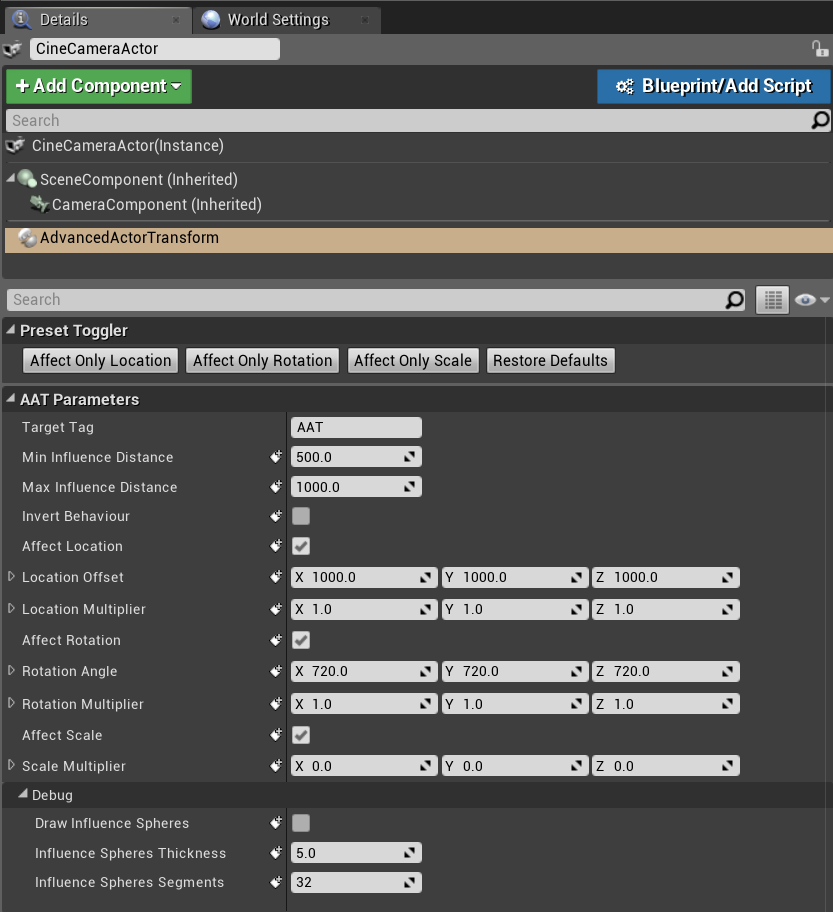
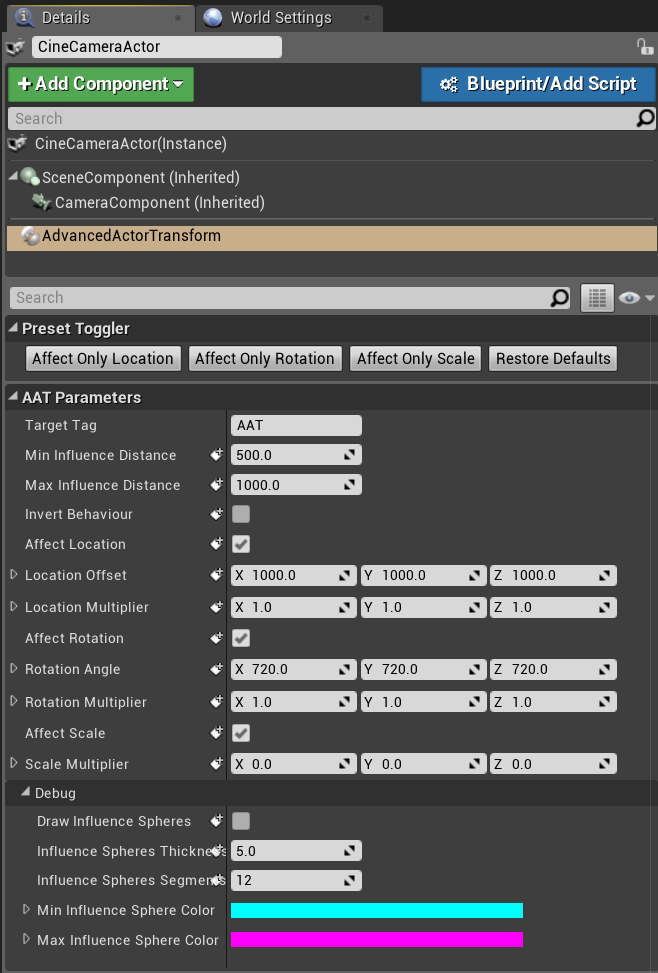
Documentation

diff --git a/README.md b/README.md
@@ -1,1 +1,94 @@
-# AdvancedActorTransform
+# **Advanced Actor Transform - How to setup:**
+- Download AdvancedActorTransform from the [Unreal Marketplace](https://unrealengine.com/marketplace/en-US/product/26fa6336e06b41d2baad1f9308d9019b) and add it to your project
+- Feel free to delete the ExampleContent folder in case you don't need it
[1 lines of base64/hex data omitted]
+![AddComponentFromDetails](https://github.com/Ares9323/AdvancedActorTransform/blob/master/Images/AddComponentFromDetails.png)
+- [**Recommended to use in game**] Add AdvancedActorTransformComponent to your character from the Add Component button in the Blueprint Editor:
+![AddComponentFromBlueprint](https://github.com/Ares9323/AdvancedActorTransform/blob/master/Images/AddComponentFromBlueprint.png)
+- Change the default values of the component according to your needs.
+
+# The details panel:
+![Details Panel](https://github.com/Ares9323/AdvancedActorTransform/blob/master/Images/AATDetails.png)
+## Preset toggler
+- **Affect only location** toggles the **Affect Rotation** and **Affect Scale** to false globally, they will ignore any tag that is not related to location.
+- **Affect only rotation** toggles the **Affect Location** and **Affect Scale** to false globally, they will ignore any tag that is not related to rotation.
+- **Affect only scale** toggles the **Affect Location** and **Affect Rotation** to false globally, they will ignore any tag that is not related to scale.
+- **Restore Defaults** restores the default values of the component (Affect Location, Rotation and Scale to true, and all the Offsets and Multipliers to their default values)
+## AAT Parameters
+| Variable | Default | Effect |
+|----------|---------|--------|
+|**Target Tag**|`AAT`|This is the tag that the component will use to find the actors to control, you can change it to any tag you want, but you have to use the same tag in the actors you want to control. If you want to use multiple components to control different actors, you can change this tag to a custom one, but **you have to make sure that no actor has the more than one control tag**, otherwise there will be conflicts.|
+|**Min Influence Distance**|`500`|This is the minimum distance that the actor has to be from the controller to be affected by it. If it's less or equal to this value, the actor will have its default Location, Rotation and Scale.|
+|**Max Influence Distance**|`500`|This is the maximum distance that the actor has to be from the controller to be affected by it. If it's greater or equal to this value, the actor will have its Location, Rotation and Scale set to the offset values.|
+|**Invert Behaviour**|`false`|Invert the effects of the component, if this is true, the actor will have its default Location, Rotation and Scale if it's less or equal to the Min Influence Distance, and it will have its Location, Rotation and Scale set to the offset values if it's greater or equal to the Max Influence Distance.|
+|**Affect Location**|`true`|If this is false, any actor with the Target Tag will ignore any location change from this controller. This will ignore any actor tag that related to location.|
+|**Location Offset**|`1000,1000,1000`|This is the offset that the actor will have if it's at the Max Influence Distance.|
+|**Location Multiplier**|`1,1,1`|This is the location offset multiplier, used to accentuate or reduce the effect of the offset. If you want to disable movement in all axes except one, you can set the other two multipliers to 0. This is a global setting and has priority over the tags.|
+|**Affect Rotation**|`true`|If this is false, any actor with the Target Tag will ignore any rotation change from this controller. This will ignore any actor tag that related to rotation.|
+|**Rotation Angle**|`720`,`720`,`720`|This is the angle that the actor will have if it's at the Max Influence Distance. By default, it's 720 degrees, which means that the actor will have a full rotation twice.|
+|**Rotation Multiplier**|`1,1,1`|This is the rotation angle multiplier, used to accentuate or reduce the effect of the rotation angle. If you want to disable rotation in all axes except one, you can set the other two multipliers to 0. This is a global setting and has priority over the tags.|
+|**Affect Scale**|`true`|If this is false, any actor with the Target Tag will ignore any scale change from this controller. This will ignore any actor tag that related to scale.|
+|**Scale Multiplier**|`0,0,0`|This is the scale multiplier, it will be multiplied by the scale of the actor at the Min Influence Distance. By default, it's 0, which means that the actor will have a scale of 0 at the Max Influence Distance (it will be invisible), if you want to make the actor bigger at the Max Influence Distance, you can set the multiplier to a value greater than 1. This is a global setting and has priority over the tags.|
+|**[Debug] DrawInfluenceSpheres**|`false`|If this is true, the component will draw spheres to show the Min and Max Influence Distance.|
+|**[Debug] InfluenceSpheresThickness**|`5`|This is the thickness of the spheres that are drawn when the DrawInfluenceSpheres is true. You might want to increase this value if you are using a large Min or Max Influence Distance.|
+|**[Debug] InfluenceSpheresSegments**|`12`|This is the number of segments of the spheres that are drawn when the DrawInfluenceSpheres is true. You might want to increase this value if you want to make the spheres look smoother and see a more precise representation of the Min and Max Influence Distance.|
+|**[Debug] MinInfluenceSphereColor**|`0,1,1,1`| This is the color of the smaller sphere that is drawn when the DrawInfluenceSpheres is true. The default color is cyan but it can be changed to avoid confusion when using multiple components.|
+|**[Debug] MaxInfluenceSphereColor**|`1,0,1,1`| This is the color of the bigger sphere that is drawn when the DrawInfluenceSpheres is true. The default color is magenta but it can be changed to avoid confusion when using multiple components.|
+
+# Tags and their effects
+| Tag                       | Effect |
+|---------------------------|--------|
+| AAT                       | Allows the actor to be controlled from the AAT component. (You can change this tag to a custom one if you want to use multiple components to control different actors)   |
+| AAT_IgnoreX               | The actor ignores location changes on the X axis      |
+| AAT_IgnoreY               | The actor ignores location changes on the Y axis      |
+| AAT_IgnoreZ               | The actor ignores location changes on the Z axis      |
+| AAT_MirrorX               | The actor location changes on the X axis are mirrored |
+| AAT_MirrorY               | The actor location changes on the Y axis are mirrored |
+| AAT_MirrorZ               | The actor location changes on the Z axis are mirrored |
+| AAT_IgnoreRoll            | The actor ignores rotation changes on the X axis      |
+| AAT_IgnorePitch           | The actor ignores rotation changes on the Y axis      |
+| AAT_IgnoreYaw             | The actor ignores rotation changes on the Z axis      |
+| AAT_MirrorRoll            | The actor rotation changes on the X axis are mirrored |
+| AAT_MirrorPitch           | The actor rotation changes on the Y axis are mirrored |
+| AAT_MirrorYaw             | The actor rotation changes on the Z axis are mirrored |
+| AAT_IgnoreScaleX          | The actor ignores scale changes on the X axis         |
+| AAT_IgnoreScaleY          | The actor ignores scale changes on the Y axis         |
+| AAT_IgnoreScaleZ          | The actor ignores scale changes on the Z axis         |
+| AAT_MirrorScaleX          | The actor scale changes on the X axis are mirrored    |
+| AAT_MirrorScaleY          | The actor scale changes on the Y axis are mirrored    |
+| AAT_MirrorScaleZ          | The actor scale changes on the Z axis are mirrored    |
+| AAT_IgnoreLocation        | The actor ignores location changes                    |
+| AAT_IgnoreRotation        | The actor ignores rotation changes                    |
+| AAT_IgnoreScale           | The actor ignores scale changes                       |
+| AAT_CollideOnlyInPlace    | The actor will only have collision enabled when it's in its definitive position, this is especially useful if you are using it in game mode, to avoid compenetrations with the player |
+| AAT_Pin                   | The actor will remain in its place once it reaches its destination. This is really useful tu save performance because the pinned actor will not be updated anymore every frame. If you want to re-enable them you have to call the AAT_GetTaggedActors inside the component|
+
+# How to add tags efficiently
+
+You can obviously add tags to the actors manually, but if you have a lot of actors and they already have different tags, the details panel won't help you at all.
+To overcome this issue, I created an Actor Action Utility that allows you to add/remove tags to multiple actors at once.
+In order to use it you just have to:
+- Select the actors you want to add/remove tags to
+- Right click on the actor and select "Scripted Actions" and select one of the AAT entries.
+![Scripted Actions](https://github.com/Ares9323/AdvancedActorTransform/blob/master/Images/ScriptedActions.png)
+
+## AAT_ActivatePreset
+![Activate Preset](https://github.com/Ares9323/AdvancedActorTransform/blob/master/Images/SA_ActivatePreset.png)
+-   **Default Presets**
+    - **Lock movement on all axes** - Adds the tags AAT_IgnoreX, AAT_IgnoreY and AAT_IgnoreZ separately, instead of AAT_IgnoreLocation, useful if you want to remove just one value.
+    - **Lock rotation on all axes** - Adds the tags AAT_IgnoreRoll, AAT_IgnorePitch and AAT_IgnoreYaw separately, instead of AAT_IgnoreRotation, useful if you want to remove just one value.
+    - **Lock scale on all axes** - Adds the tags AAT_IgnoreScaleX, AAT_IgnoreScaleY and AAT_IgnoreScaleZ separately, instead of AAT_IgnoreScale, useful if you want to remove just one value.
+    - **Lock movement and allow rotation only on the Z axis** - Useful for columns, pillars, to simulate growth from the bottom
+    - **Rotate object on the Z axis and negate Z location** -Useful to simulate the DNA helix effect, remove AAT_InverseZ to make it appear from the regular direction instead of the flipped one.
+  - You can create your own presets, you just need to add an entry in the `EAdvancedActorTransform_Presets` enum and implement the tags you need inside the `AddPresetTagsToSelectedActors` function, insite `AAU_AdvancedActorTransformUtilities`
+## AAT_AddTag / AAT_RemoveTag
+![Add/Remove Tag](https://github.com/Ares9323/AdvancedActorTransform/blob/master/Images/SA_AddTag.png)
+- Just select the tag you want to add/remove and the actors will be updated accordingly.
+
+## Remove all tags
+![Remove all tags](https://github.com/Ares9323/AdvancedActorTransform/blob/master/Images/SA_RemoveAllTags.png)
+- By default, this will remove all the tags that are related to the AAT component, so it will remove all the tags that start with `AAT_`, if RemoveOnlyAAT_Tags is set to false, it will remove all the tags from the selected actors.
+
+## Replace activation tag
+![Replace activation tag](https://github.com/Ares9323/AdvancedActorTransform/blob/master/Images/SA_ReplaceActivationTag.png)
+- This will replace the activation tag of the selected actors with the one you selected, this is useful if you want to use multiple components to control different actors, you can just change the activation tag and the actors will be controlled by the component that has the same activation tag. It's recommended to use a tag that starts with `AAT_` to be able to use the AAT_RemoveAllTags function.
